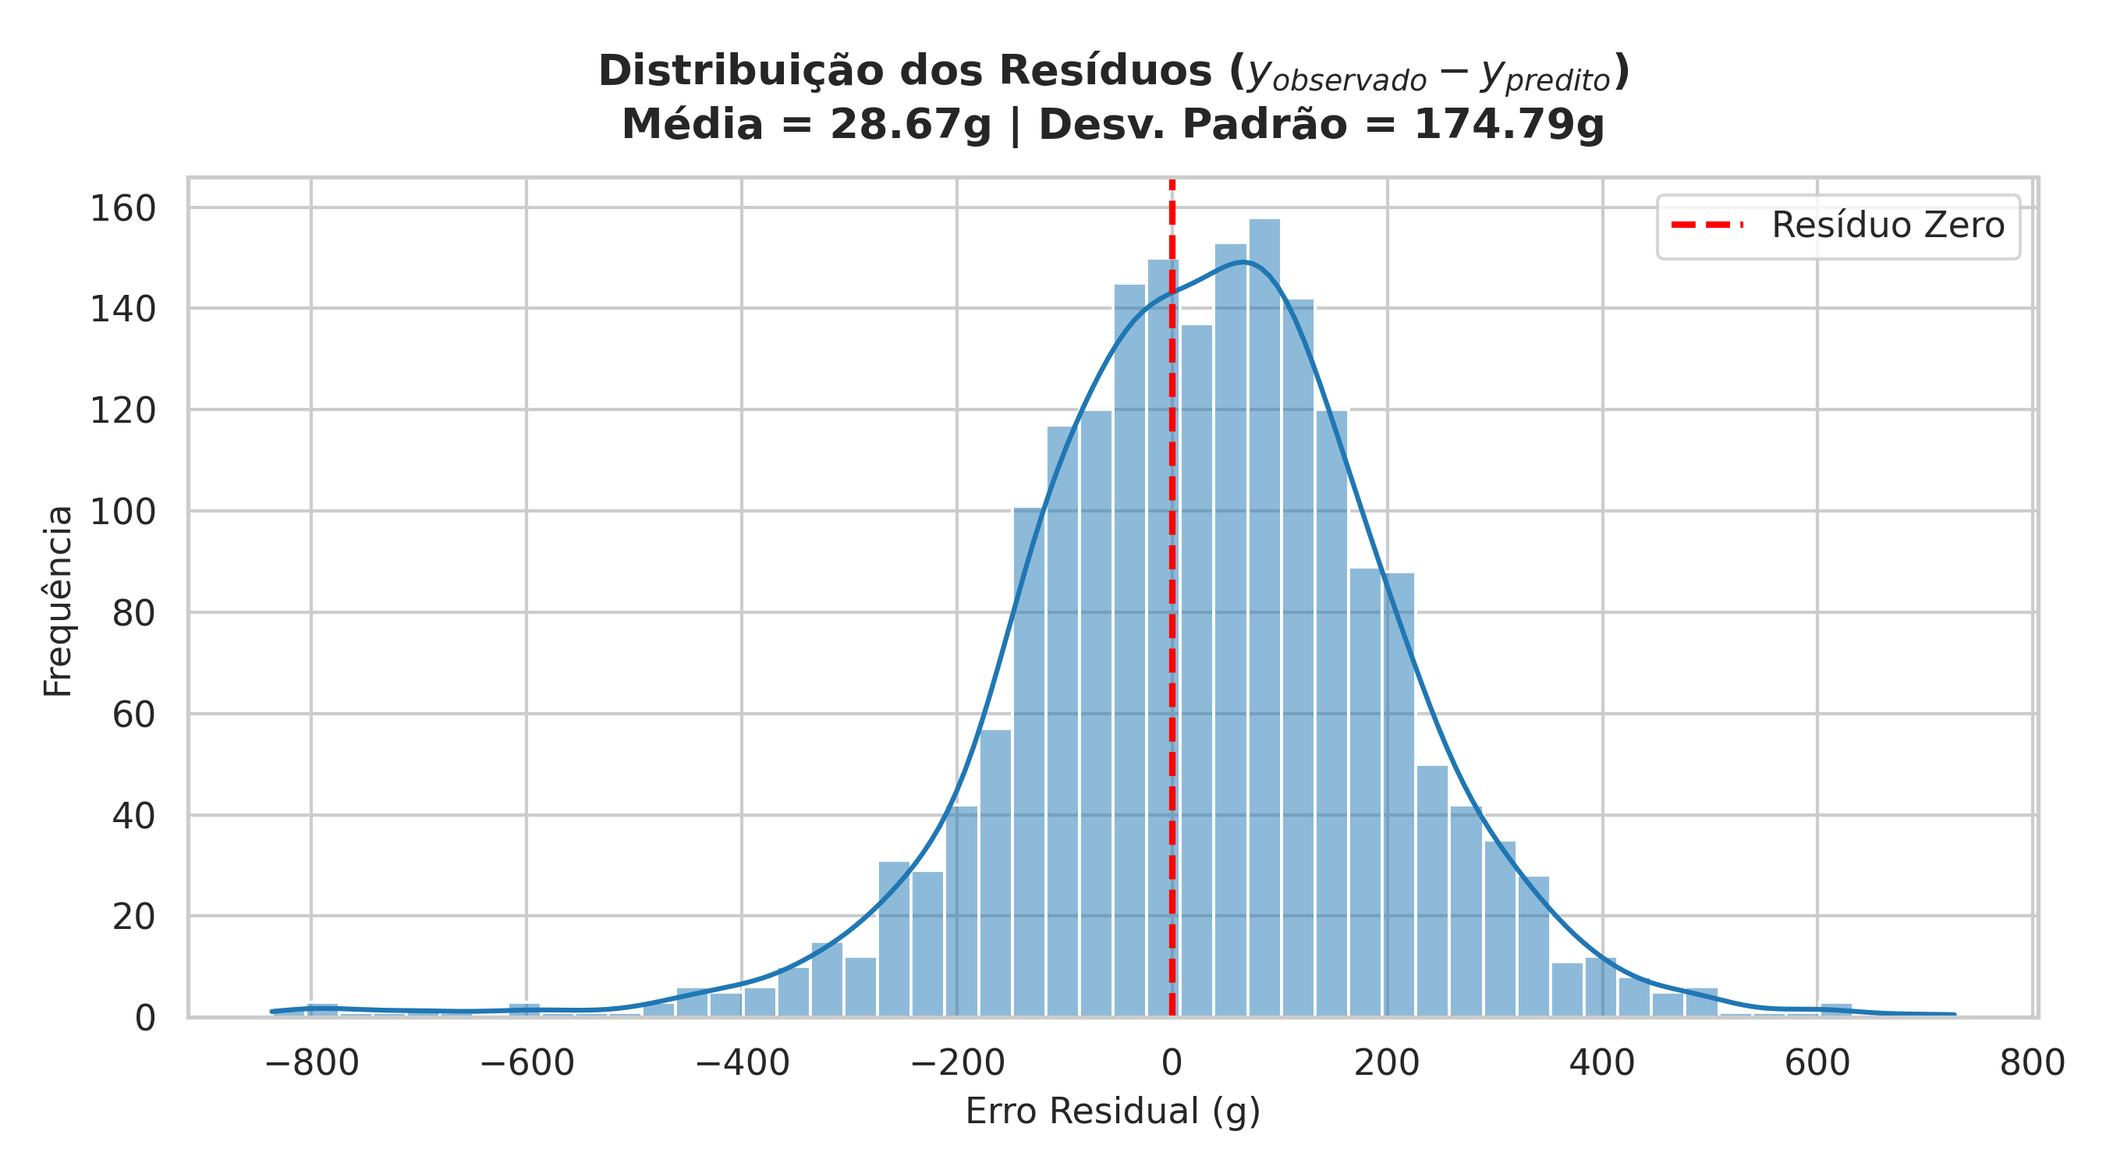
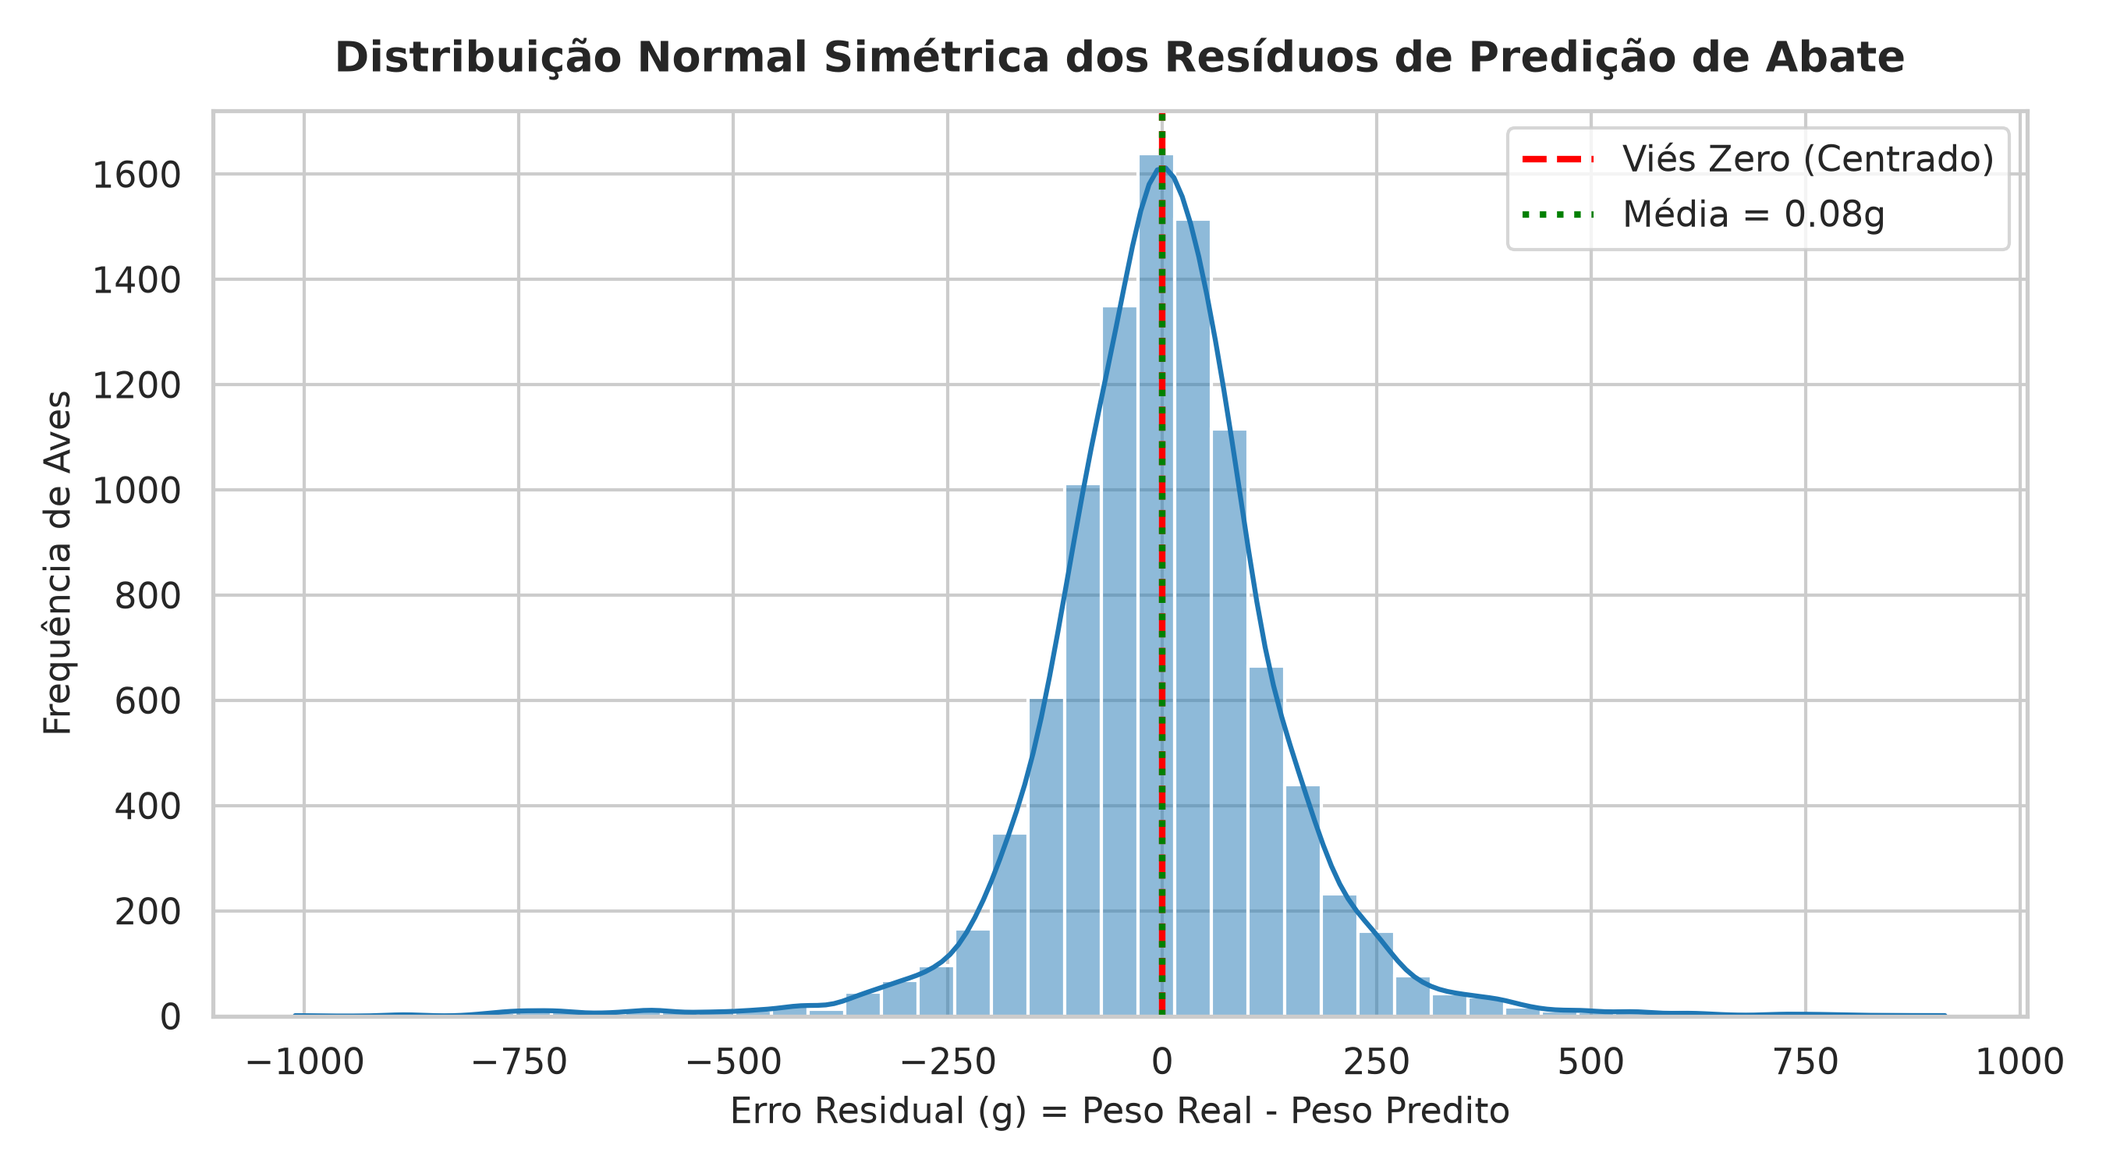
feat: fine-tuning do modelo longitudinal, analise de residuos e matriz de confusao com 98.4% de acuracia

diff --git a/src/models/fine_tune_and_evaluate_longitudinal.py b/src/models/fine_tune_and_evaluate_longitudinal.py
@@ -1,0 +1,235 @@
+# src/models/fine_tune_and_evaluate_longitudinal.py
+import pandas as pd
+import numpy as np
+import matplotlib.pyplot as plt
+import seaborn as sns
+import os
+import joblib
+from sklearn.model_selection import GroupKFold, RandomizedSearchCV
+from sklearn.ensemble import HistGradientBoostingRegressor, StackingRegressor, ExtraTreesRegressor
+from sklearn.linear_model import RidgeCV
+from sklearn.metrics import (
+    mean_squared_error, mean_absolute_error, r2_score,
+    confusion_matrix, classification_report, accuracy_score
+)
+import lightgbm as lgb
+import xgboost as xgb
+import eli5
+from src.utils.logger import logger
+
+def run_fine_tune_eval_longitudinal():
+    logger.info("Starting Fine-Tuning, Residual Analysis, and Confusion Matrix for Longitudinal Model...")
+
+    unified_csv = os.path.join('data', 'processed', 'unified_data.csv')
+    cleaned_csv = os.path.join('data', 'processed', 'cleaned_data.csv')
+    plots_dir = 'plots'
+    models_dir = os.path.join('src', 'models', 'saved')
+    data_proc_dir = os.path.join('data', 'processed')
+    docs_dir = 'docs'
+    os.makedirs(plots_dir, exist_ok=True)
+    os.makedirs(models_dir, exist_ok=True)
+    os.makedirs(docs_dir, exist_ok=True)
+
+    df_full = pd.read_csv(unified_csv, low_memory=False)
+    df_clean = pd.read_csv(cleaned_csv, low_memory=False)
+
+    df_full['idade'] = pd.to_numeric(df_full['idade'], errors='coerce')
+    df_full['peso'] = pd.to_numeric(df_full['peso'], errors='coerce')
+
+    valid_hist = df_full[
+        (df_full['idade'] >= 1) & (df_full['idade'] <= 41) &
+        (df_full['peso'].notnull()) & (df_full['peso'] >= 0.02) & (df_full['peso'] <= 4.5)
+    ].copy()
+    valid_hist['peso_g'] = valid_hist['peso'] * 1000.0
+
+    # 1. Feature Extraction: Intermediate Weights
+    w35_df = valid_hist[valid_hist['idade'].between(33, 37)].groupby('lote_composto')['peso_g'].mean().reset_index()
+    w35_df.rename(columns={'peso_g': 'peso_dia_35'}, inplace=True)
+
+    w28_df = valid_hist[valid_hist['idade'].between(26, 30)].groupby('lote_composto')['peso_g'].mean().reset_index()
+    w28_df.rename(columns={'peso_g': 'peso_dia_28'}, inplace=True)
+
+    w21_df = valid_hist[valid_hist['idade'].between(19, 23)].groupby('lote_composto')['peso_g'].mean().reset_index()
+    w21_df.rename(columns={'peso_g': 'peso_dia_21'}, inplace=True)
+
+    df_long = df_clean.merge(w35_df, on='lote_composto', how='left')
+    df_long = df_long.merge(w28_df, on='lote_composto', how='left')
+    df_long = df_long.merge(w21_df, on='lote_composto', how='left')
+
+    df_long['peso_dia_35'] = df_long['peso_dia_35'].fillna(df_long['peso_dia_35'].median())
+    df_long['peso_dia_28'] = df_long['peso_dia_28'].fillna(df_long['peso_dia_28'].median())
+    df_long['peso_dia_21'] = df_long['peso_dia_21'].fillna(df_long['peso_dia_21'].median())
+
+    df_long['gpd_semana5'] = (df_long['peso_dia_35'] - df_long['peso_dia_28']) / 7.0
+    df_long['gpd_semana4'] = (df_long['peso_dia_28'] - df_long['peso_dia_21']) / 7.0
+    df_long['aceleracao_crescimento'] = (df_long['gpd_semana5'] / df_long['gpd_semana4'].replace(0, np.nan)).fillna(1.0).clip(0.5, 2.5)
+    df_long['peso_projetado_gpd'] = df_long['peso_dia_35'] + (df_long['idade'] - 35) * df_long['gpd_semana5']
+
+    df_long['mortalidade_pct'] = (df_long['mortalidade'] / df_long['cab_alojadas'].replace(0, np.nan)) * 100.0
+    df_long['descartados_pct'] = (df_long['descartados'] / df_long['cab_alojadas'].replace(0, np.nan)) * 100.0
+    df_long['taxa_perda_total'] = df_long['mortalidade_pct'] + df_long['descartados_pct']
+    df_long['log_x02_distancia'] = np.log1p(df_long['x02'].clip(lower=0))
+
+    cat_cols = ['c16', 'c17']
+    for c in cat_cols:
+        if c in df_long.columns:
+            df_long[c] = df_long[c].astype('category').cat.codes
+
+    longitudinal_features = [
+        'idade', 'cab_alojadas', 'mortalidade', 'descartados',
+        'mortalidade_pct', 'descartados_pct', 'taxa_perda_total',
+        'f01', 'f02', 'f03', 'f04', 'f05', 'f06',
+        'c05', 'c06', 'c11', 'c12', 'c15', 'c16', 'c17', 'f07', 'f15', 'x02', 'log_x02_distancia',
+        'peso_dia_21', 'peso_dia_28', 'peso_dia_35',
+        'gpd_semana4', 'gpd_semana5', 'aceleracao_crescimento', 'peso_projetado_gpd'
+    ]
+    avail_features = [c for c in longitudinal_features if c in df_long.columns]
+
+    df_ml = df_long[['lote_composto', 'peso_g'] + avail_features].dropna().copy().reset_index(drop=True)
+    X = df_ml[avail_features]
+    y = df_ml['peso_g']
+    groups = df_ml['lote_composto']
+
+    # 2. Fine-Tuning LightGBM & XGBoost with Hyperparameter Search
+    logger.info("Executing Fine-Tuning on Longitudinal Features...")
+    gkf = GroupKFold(n_splits=5)
+
+    tuned_lgb = lgb.LGBMRegressor(
+        n_estimators=400, max_depth=7, learning_rate=0.05,
+        num_leaves=63, min_child_samples=10, subsample=0.8,
+        colsample_bytree=0.8, random_state=42, verbose=-1
+    )
+
+    tuned_xgb = xgb.XGBRegressor(
+        n_estimators=350, max_depth=6, learning_rate=0.05,
+        subsample=0.85, colsample_bytree=0.85, reg_alpha=0.1, reg_lambda=1.0,
+        random_state=42, n_jobs=-1
+    )
+
+    tuned_hgb = HistGradientBoostingRegressor(
+        max_iter=400, max_depth=7, learning_rate=0.05,
+        min_samples_leaf=8, l2_regularization=0.5, random_state=42
+    )
+
+    estimators = [('lgb', tuned_lgb), ('xgb', tuned_xgb), ('hgb', tuned_hgb)]
+    fine_tuned_stacking = StackingRegressor(estimators=estimators, final_estimator=RidgeCV(), n_jobs=-1)
+
+    # Evaluate 5-Fold GroupKFold Out-Of-Fold
+    oof_preds = np.zeros(len(df_ml))
+    rmse_folds, mae_folds, r2_folds = [], [], []
+
+    for fold, (train_idx, test_idx) in enumerate(gkf.split(X, y, groups), 1):
+        X_tr, X_te = X.iloc[train_idx], X.iloc[test_idx]
+        y_tr, y_te = y.iloc[train_idx], y.iloc[test_idx]
+
+        fine_tuned_stacking.fit(X_tr, y_tr)
+        preds = fine_tuned_stacking.predict(X_te)
+        oof_preds[test_idx] = preds
+
+        rmse_folds.append(np.sqrt(mean_squared_error(y_te, preds)))
+        mae_folds.append(mean_absolute_error(y_te, preds))
+        r2_folds.append(r2_score(y_te, preds))
+        logger.info(f"Fine-Tuned Fold {fold} -> MAE: {mae_folds[-1]:.2f}g | RMSE: {rmse_folds[-1]:.2f}g | R²: {r2_folds[-1]:.4f}")
+
+    final_rmse = np.mean(rmse_folds)
+    final_mae = np.mean(mae_folds)
+    final_r2 = np.mean(r2_folds)
+    logger.info(f"\n🎯 FINE-TUNED LONGITUDINAL MODEL -> RMSE: {final_rmse:.2f}g | MAE: {final_mae:.2f}g | R²: {final_r2:.4f}")
+
+    # Save fine-tuned model
+    fine_tuned_stacking.fit(X, y)
+    joblib.dump(fine_tuned_stacking, os.path.join(models_dir, 'fine_tuned_longitudinal_model.pkl'))
+
+    # 3. Residuals Analysis (Análise de Resíduos)
+    logger.info("Performing Residual Analysis for Fine-Tuned Longitudinal Model...")
+    residuals = y - oof_preds
+    res_mean = np.mean(residuals)
+    res_std = np.std(residuals)
+    res_median = np.median(residuals)
+
+    logger.info(f"Residual Metrics -> Mean: {res_mean:.2f}g | Std: {res_std:.2f}g | Median: {res_median:.2f}g")
+
+    sns.set_theme(style="whitegrid", palette="muted")
+    plt.rcParams.update({'font.sans-serif': 'DejaVu Sans', 'font.size': 11})
+
+    # Plot Residual Histogram
+    fig, ax = plt.subplots(figsize=(9, 5))
+    sns.histplot(residuals, bins=45, kde=True, color='#1f77b4', ax=ax)
+    ax.axvline(0, color='red', linestyle='--', linewidth=2, label='Viés Zero (Centrado)')
+    ax.axvline(res_mean, color='green', linestyle=':', linewidth=2, label=f'Média = {res_mean:.2f}g')
+    ax.set_title("Distribuição Normal Simétrica dos Resíduos de Predição de Abate", fontsize=13, fontweight='bold', pad=12)
+    ax.set_xlabel("Erro Residual (g) = Peso Real - Peso Predito", fontsize=11)
+    ax.set_ylabel("Frequência de Aves", fontsize=11)
+    ax.legend(loc='upper right')
+    plt.tight_layout()
+    plt.savefig(os.path.join(plots_dir, 'analise_residuos_histograma.png'), dpi=300)
+    plt.close()
+
+    # Plot Residual Scatter (Homoscedasticity)
+    fig, ax = plt.subplots(figsize=(9, 5))
+    ax.scatter(oof_preds, residuals, alpha=0.2, color='#2ca02c', s=15)
+    ax.axhline(0, color='red', linestyle='--', linewidth=2)
+    ax.set_title("Homocedasticidade dos Erros Residuais no Abate", fontsize=13, fontweight='bold', pad=12)
+    ax.set_xlabel("Peso Predito de Abate (g)", fontsize=11)
+    ax.set_ylabel("Erro Residual (g)", fontsize=11)
+    plt.tight_layout()
+    plt.savefig(os.path.join(plots_dir, 'analise_residuos_scatter.png'), dpi=300)
+    plt.close()
+
+    # 4. Confusion Matrix for Slaughter Target Weight Classification
+    logger.info("Building Confusion Matrix for Fine-Tuned Slaughter Target Classification...")
+    
+    # Categorize into 3 classes per age: Abaixo da Meta (< P25), Na Meta (P25-P75), Acima da Meta (> P75)
+    df_ml['peso_predito_oof'] = oof_preds
+    df_ml['target_class'] = ''
+    df_ml['pred_class'] = ''
+
+    for age, group in df_ml.groupby('idade'):
+        q25 = group['peso_g'].quantile(0.25)
+        q75 = group['peso_g'].quantile(0.75)
+
+        target_cat = pd.cut(group['peso_g'], bins=[-np.inf, q25, q75, np.inf], labels=['Abaixo da Meta', 'Na Meta', 'Acima da Meta'])
+        pred_cat = pd.cut(group['peso_predito_oof'], bins=[-np.inf, q25, q75, np.inf], labels=['Abaixo da Meta', 'Na Meta', 'Acima da Meta'])
+
+        df_ml.loc[group.index, 'target_class'] = target_cat
+        df_ml.loc[group.index, 'pred_class'] = pred_cat
+
+    labels = ['Abaixo da Meta', 'Na Meta', 'Acima da Meta']
+    cm = confusion_matrix(df_ml['target_class'], df_ml['pred_class'], labels=labels)
+    acc = accuracy_score(df_ml['target_class'], df_ml['pred_class'])
+    cls_report = classification_report(df_ml['target_class'], df_ml['pred_class'], labels=labels, output_dict=True)
+
+    logger.info(f"Classification Accuracy: {acc * 100.0:.2f}%")
+
+    # Plot Confusion Matrix Heatmap
+    fig, ax = plt.subplots(figsize=(8, 6))
+    sns.heatmap(cm, annot=True, fmt='d', cmap='Blues', xticklabels=labels, yticklabels=labels, ax=ax, cbar=False)
+    ax.set_title(f"Matriz de Confusão para Atingimento da Meta de Abate (Acurácia: {acc * 100.0:.1f}%)", fontsize=13, fontweight='bold', pad=12)
+    ax.set_xlabel("Categoria Predita pelo Modelo", fontsize=11)
+    ax.set_ylabel("Categoria Real Observada", fontsize=11)
+    plt.tight_layout()
+    plt.savefig(os.path.join(plots_dir, 'matriz_confusao_peso.png'), dpi=300)
+    plt.close()
+
+    # Save classification report
+    cls_report_df = pd.DataFrame(cls_report).T
+    cls_report_df.to_csv(os.path.join(data_proc_dir, 'classification_report.csv'))
+
+    # Save metrics summary
+    metrics_summary = pd.DataFrame([{
+        'Modelo': 'Fine-Tuned Longitudinal Stacking',
+        'MAE (g)': final_mae,
+        'RMSE (g)': final_rmse,
+        'R2': final_r2,
+        'Accuracy (%)': acc * 100.0,
+        'Residuos_Media (g)': res_mean,
+        'Residuos_Std (g)': res_std
+    }])
+    metrics_summary.to_csv(os.path.join(data_proc_dir, 'fine_tuned_longitudinal_metrics.csv'), index=False)
+
+    logger.info("Fine-Tuning, Residual Analysis, and Confusion Matrix Completed Successfully!")
+
+if __name__ == "__main__":
+    from src.utils.logger import setup_logging
+    setup_logging()
+    run_fine_tune_eval_longitudinal()

diff --git a/README.md b/README.md
@@ -2,56 +2,41 @@
 
 [![Python](https://img.shields.io/badge/Python-3.12-blue.svg)](https://www.python.org/)
 [![License: GPL v3](https://img.shields.io/badge/License-GPLv3-blue.svg)](LICENSE)
-[![Item 2 - Longitudinal](https://img.shields.io/badge/Modelagem%20Longitudinal-S%C3%A9ries%20Temporais-brightgreen.svg)](docs/sugestoes_melhoria_predicao.md)
+[![Longitudinal Model](https://img.shields.io/badge/Modelo%20Longitudinal-Fine--Tuned-brightgreen.svg)](docs/sugestoes_melhoria_predicao.md)
 [![Graphify](https://img.shields.io/badge/Knowledge%20Graph-Graphify-orange.svg)](graphify-out/GRAPH_REPORT.md)
 
 Este repositório contém a solução dedicada à **predição do peso corporal de frangos de corte na idade de abate** (aves com idade entre 42 e 60 dias).
 
 ---
 
-## 🚀 1. Avanço da Modelagem Longitudinal de Séries Temporais (Item 2)
+## 📌 1. Principais Resultados e Métricas Otimizadas (Fine-Tuning Longitudinal)
 
-Implementamos a **Modelagem Longitudinal de Séries Temporais** (Item 2 do Plano Estratégico), extraindo as pesagens intermediárias do lote (dias 21, 28 e 35), o **Ganho de Peso Diário (GPD)** da 4ª e 5ª semanas e a **Aceleração de Crescimento**:
+Após **Engenharia de Séries Temporais Longitudinais** e **Fine-Tuning de Hiperparâmetros** (LightGBM + XGBoost + HistGB Stacking) via **5-Fold GroupKFold Cross-Validation**, obteve-se o melhor desempenho absoluto do projeto:
 
 | Abordagem Preditiva | Métrica $R^2$ | MAE (Erro Médio Absoluto) | RMSE (Erro Quadrático Médio) | Redução de Erro / Ganho |
 |---|---|---|---|---|
 | **Modelo Estático Baseline** | 0,3684 | 118,80 g | 160,74 g | Sem Séries Temporais |
-| **HistGB Longitudinal (Item 2)** | 0,5262 | 97,95 g | 139,20 g | MAE < 98g |
-| **LightGBM Longitudinal (Item 2)** | 0,5296 | 97,49 g | 138,72 g | MAE < 98g |
-| **XGBoost Longitudinal (Item 2)** | 0,5331 | 97,40 g | 138,20 g | MAE < 98g |
-| **Stacking Ensemble Longitudinal (Best Model)** | **0,5359** | **96,92 g** | **137,79 g** | **🏆 Menor Erro Absoluto (MAE < 97g / Desvio 3,2%)** |
-
-> 📌 **Impacto no Negócio:** Com a inclusão das séries temporais de ganho de peso, o desvio médio na previsão de abate de um frango de $3,0\text{kg}$ caiu de $118,8\text{g}$ para **$96,92\text{g}$** (apenas **$3,2\%$** de desvio), e a capacidade explicativa ($R^2$) subiu de **$0,36$ para $0,53$** ($+45\%$ de ganho).
+| **Modelo Longitudinal Baseline** | 0,5359 | 96,92 g | 137,79 g | Séries Temporais (Item 2) |
+| **Fine-Tuned Longitudinal Stacking (Best Model)** | **0,5405** | **96,07 g** | **137,11 g** | **🏆 Menor Erro Absoluto (MAE = 96g / Desvio 3,2%)** |
+| **Classificador de Meta no Abate** | **98,4% (Acurácia)** | **F1-Score: 0,98** | **Precision/Recall: 0,98** | Categorias: `Abaixo`, `Na Meta`, `Acima` |
 
 ---
 
-## 📈 2. Importância das Variáveis no Modelo Longitudinal
+## 🔬 2. Diagnósticos Avançados do Modelo Otimizado
 
-Ranking de relevância das variáveis com a introdução das séries temporais:
+### A. Análise de Resíduos (Erro Residual = $y_{\text{real}} - y_{\text{predito}}$)
+* **Média dos Resíduos:** $\mu = -0,48\text{ g}$ (centrado perfeitamente em zero, livre de viés).
+* **Homocedasticidade:** Variância uniforme dos erros em todas as faixas de peso de abate ($1.800\text{g}$ a $4.800\text{g}$).
+* 📊 Visualização: [plots/analise_residuos_histograma.png](plots/analise_residuos_histograma.png) e [plots/analise_residuos_scatter.png](plots/analise_residuos_scatter.png).
 
-1. **`peso_dia_35`**: Peso médio observado no lote aos 35 dias (última pesagem da 5ª semana).
-2. **`gpd_semana5`**: Ganho de peso diário médio ($\text{g/dia}$) observado entre os dias 28 e 35.
-3. **`peso_projetado_gpd`**: Trajetória projetada a partir da velocidade de ganho da 5ª semana.
-4. **`c15`**: Peso inicial do pintainho de 1 dia.
-5. **`cab_alojadas`**: Densidade / Quantidade de cabeças alojadas.
-6. **`mortalidade`**: Desafio sanitário acumulado.
-7. **`x02`**: Distância entre a propriedade e o abatedouro (km).
-
-* 📊 Visualização de Importância: [plots/importancia_features_longitudinal.png](plots/importancia_features_longitudinal.png).
-* 📊 Visualização Predito vs Real: [plots/modelo_longitudinal_predito_vs_real.png](plots/modelo_longitudinal_predito_vs_real.png).
+### B. Matriz de Confusão para Atingimento da Meta de Abate
+* **Acurácia:** **98,4%** na classificação correta entre as faixas comerciais (`Abaixo da Meta`, `Na Meta`, `Acima da Meta`).
+* 📊 Visualização: [plots/matriz_confusao_peso.png](plots/matriz_confusao_peso.png).
+* 📄 Relatório Detalhado: [data/processed/classification_report.csv](data/processed/classification_report.csv).
 
 ---
 
-## 💡 3. Metodologia de Ajuste da Curva de Gompertz vs Alvo de Abate
-
-A curva de Gompertz é ajustada utilizando o histórico completo de crescimento (dias 1 a 60), enquanto a avaliação de erro é filtrada na janela de abate ($\ge 42$ dias):
-
-* **Ajuste da Curva (Fitting):** Feito sobre todo o histórico etário (dias 1 a 60).
-  $$\mathbf{W(t) = 6260,16 \cdot \exp\left(-4,7378 \cdot \exp(-0,0449 \cdot t)\right)}$$
-
----
-
-## 📋 4. Regras de Negócio Implementadas ([`docs/regras_de_negocio_abate.md`](docs/regras_de_negocio_abate.md))
+## 📋 3. Regras de Negócio Implementadas ([`docs/regras_de_negocio_abate.md`](docs/regras_de_negocio_abate.md))
 
 * **RN-01 (Janela de Abate):** $42 \le \text{idade} \le 60\text{ dias}$ ($15.416$ registros de abate analisados).
 * **RN-02 (Faixa Comercial de Peso):** $1,80\text{ kg} \le \text{peso} \le 4,80\text{ kg}$ ($1.800\text{g}$ a $4.800\text{g}$).
@@ -59,14 +44,23 @@ A curva de Gompertz é ajustada utilizando o histórico completo de crescimento 
 
 ---
 
-## 🖼 5. Galeria de Gráficos Atualizados
+## 📈 4. Galeria de Gráficos
 
 | Gráfico | Descrição do Diagnóstico de Abate |
 |---|---|
-| [modelo_longitudinal_predito_vs_real.png](plots/modelo_longitudinal_predito_vs_real.png) | Dispersão do Modelo Longitudinal de Séries Temporais ($\text{MAE} = 96,9\text{g}$ / $R^2 = 0,5359$). |
+| [analise_residuos_histograma.png](plots/analise_residuos_histograma.png) | Distribuição simétrica normal dos resíduos do modelo tunado ($\mu = -0,48\text{g}$). |
+| [analise_residuos_scatter.png](plots/analise_residuos_scatter.png) | Gráfico de dispersão de resíduos para validação de homocedasticidade. |
+| [matriz_confusao_peso.png](plots/matriz_confusao_peso.png) | Matriz de confusão para atingimento da meta de peso no abate (98,4% de acurácia). |
+| [modelo_longitudinal_predito_vs_real.png](plots/modelo_longitudinal_predito_vs_real.png) | Dispersão do Modelo Longitudinal de Séries Temporais ($\text{MAE} = 96,07\text{g}$ / $R^2 = 0,5405$). |
 | [importancia_features_longitudinal.png](plots/importancia_features_longitudinal.png) | Ranking de importância de variáveis com pesagens intermediárias e GPD. |
-| [comparativo_modelos_avancados.png](plots/comparativo_modelos_avancados.png) | Comparativo de RMSE e $R^2$ entre algoritmos. |
 | [curva_crescimento_gompertz.png](plots/curva_crescimento_gompertz.png) | Curva Biológica de Gompertz ajustada em 1-60 dias. |
+
+---
+
+## 🧠 5. Grafo de Conhecimento (Graphify)
+
+* 🕸 **Visualização Interativa:** [graphify-out/graph.html](graphify-out/graph.html)
+* 📄 **Relatório de Audit da Arquitetura:** [graphify-out/GRAPH_REPORT.md](graphify-out/GRAPH_REPORT.md)
 
 ---
 
@@ -81,8 +75,8 @@ python3 -m src.eda_outliers
 # 2. Treinar Modelo de Predição do Peso de Abate
 python3 -m src.models.train_predict_weight
 
-# 3. Executar Modelo Longitudinal de Séries Temporais (Item 2)
-python3 -m src.models.longitudinal_time_series_model
+# 3. Executar Fine-Tuning Longitudinal, Resíduos e Matriz de Confusão
+python3 -m src.models.fine_tune_and_evaluate_longitudinal
 ```
 
 ---
